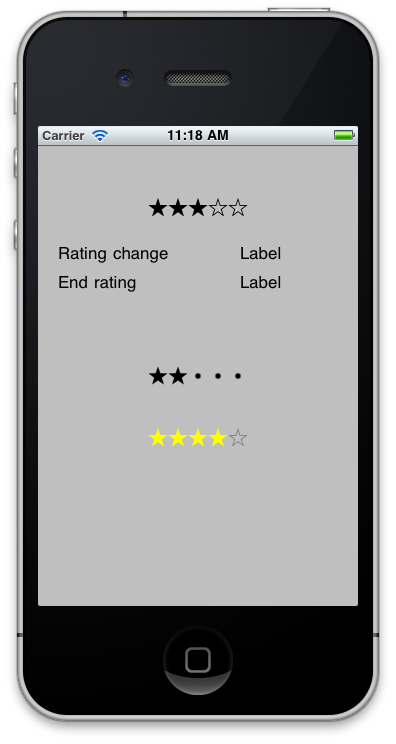
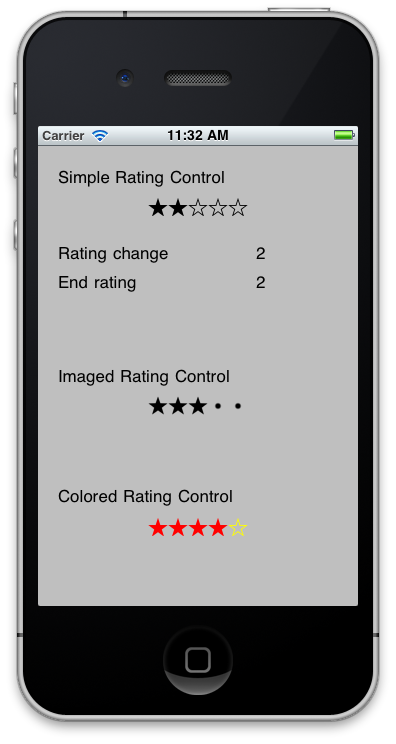
updated demo and changed screenshot

diff --git a/Demo/Controller/AMRatingControlViewController.m b/Demo/Controller/AMRatingControlViewController.m
@@ -41,7 +41,7 @@
 	UIImage *dot, *star;
 	dot = [UIImage imageNamed:@"dot.png"];
 	star = [UIImage imageNamed:@"star.png"];
-	AMRatingControl *imagesRatingControl = [[AMRatingControl alloc] initWithLocation:CGPointMake(110, 220)
+	AMRatingControl *imagesRatingControl = [[AMRatingControl alloc] initWithLocation:CGPointMake(110, 250)
                                                                       emptyImage:dot
                                                                       solidImage:star
                                                                     andMaxRating:5];
@@ -50,9 +50,9 @@
     // - a CGPoint (the position in your view from which it will be drawn)
     // - a custom empty image and solid image if you wish (pass nil if you want to use the default).
     // - and max rating
-	AMRatingControl *coloredRatingControl = [[AMRatingControl alloc] initWithLocation:CGPointMake(110, 280)
-                                                                           emptyColor:[UIColor grayColor]
-                                                                           solidColor:[UIColor yellowColor]
+	AMRatingControl *coloredRatingControl = [[AMRatingControl alloc] initWithLocation:CGPointMake(110, 370)
+                                                                           emptyColor:[UIColor yellowColor]
+                                                                           solidColor:[UIColor redColor]
                                                                          andMaxRating:5];
                                                                         
     
